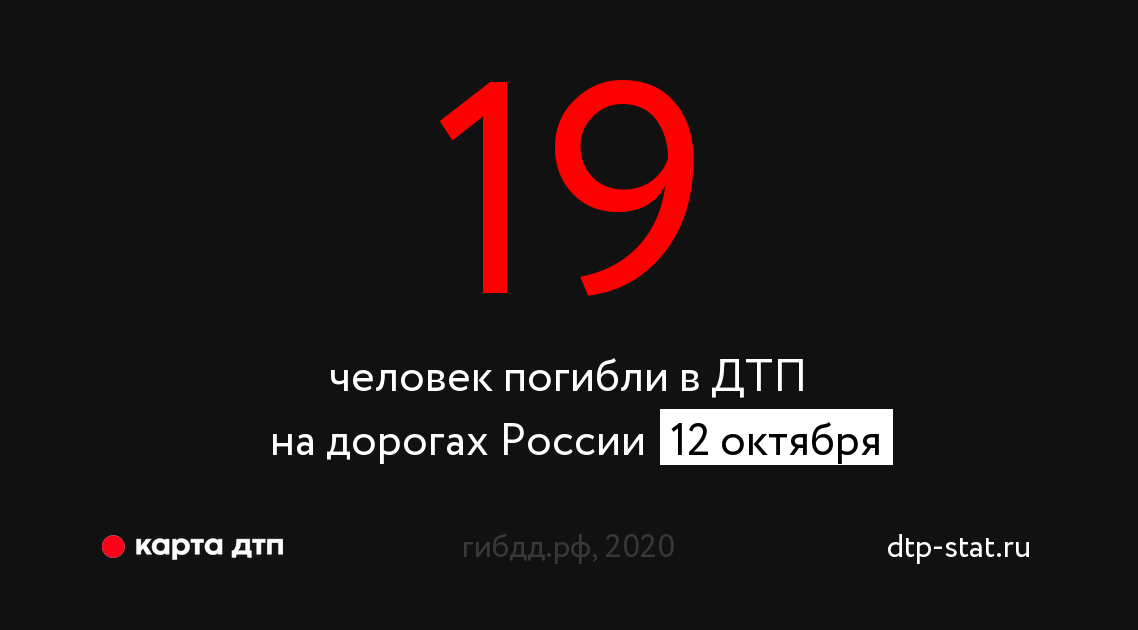
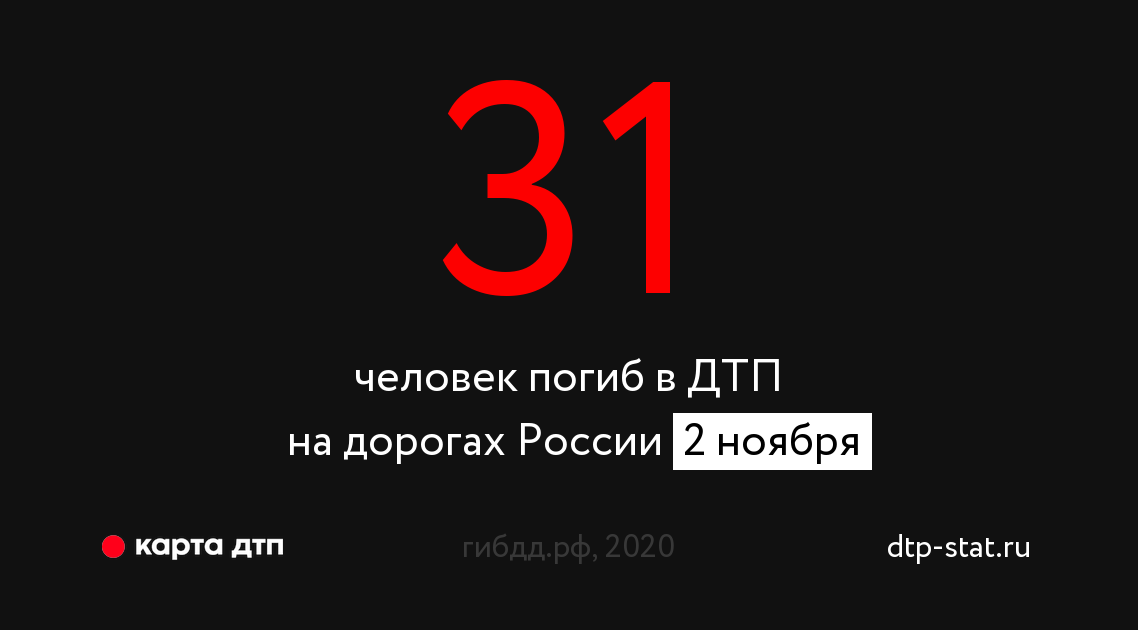
fix bot

Changed region(s): [[0.3691, 0.1206, 0.6151, 0.4825], [0.2153, 0.573, 0.7996, 0.754]]

diff --git a/application/bot/bot.py b/application/bot/bot.py
@@ -128,13 +128,16 @@ def make_img(source):
 
     # text second line
     text = "на дорогах России "
+    w_text, h_text = draw.textsize(text, font=text_font)
     w, h = draw.textsize(text + source['string_date'], font=text_font)
-    draw.text((crashes_deaths_ratio - w / 2, 0.65 * H), text, (255, 255, 255), font=text_font)
+    w_coord = crashes_deaths_ratio - w / 2
+    h_coord = 0.65 * H
+    draw.text((w_coord, h_coord), text, (255, 255, 255), font=text_font)
 
     text = " " + source['string_date'] + " "
-    w, h = draw.textsize(text, font=text_font)
-    draw.rectangle(((W*0.58, 0.65 * H),(W*0.58+w, 0.65 * H+h)), fill="white")
-    draw.text((W*0.58, 0.65 * H), text, (0, 0, 0), font=text_font)
+    w_string, h_string = draw.textsize(text, font=text_font)
+    draw.rectangle(((w_coord + w_text, h_coord*1.01),(w_coord + w_text + w_string, (h_coord + h)*1.01)), fill="white")
+    draw.text((w_coord + w_text, 0.65 * H), text, (0, 0, 0), font=text_font)
 
     # low line
     low_line = int(0.85 * H)
